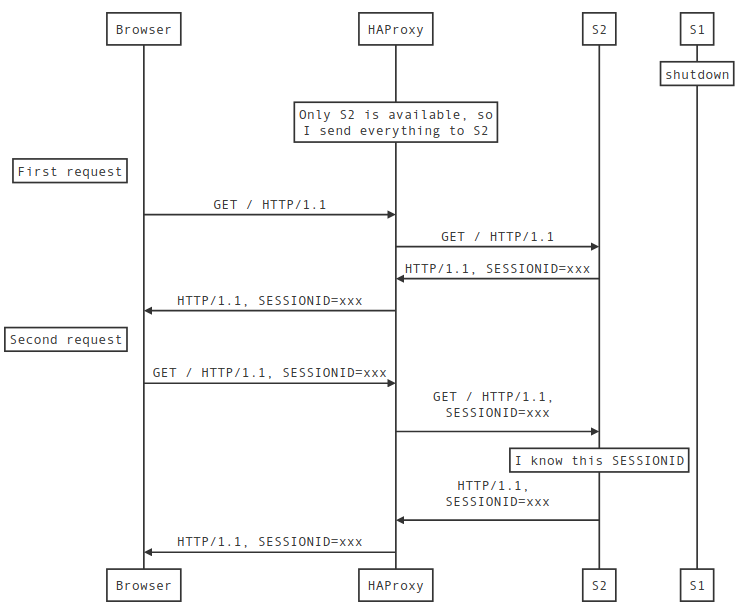
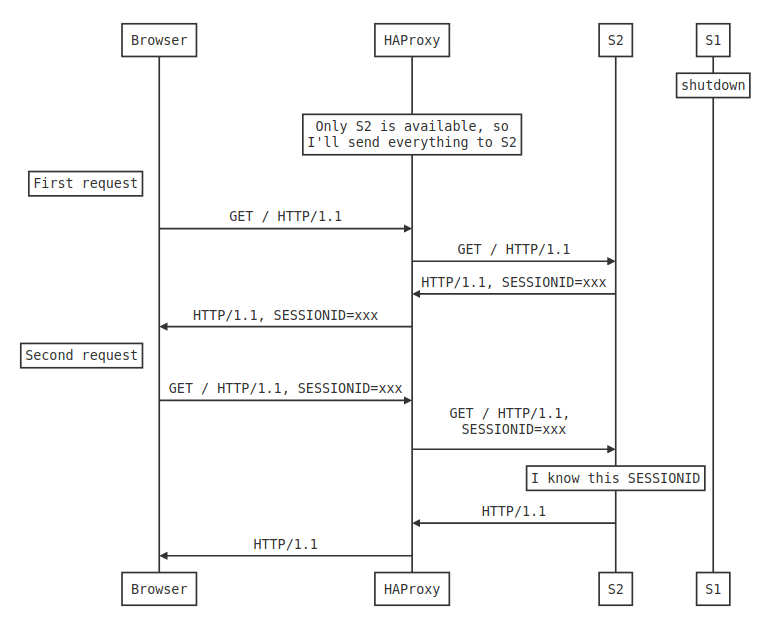
completes report

Changed region(s): [[0.0, 0.0, 0.9919, 1.0]]

diff --git a/README.md b/README.md
@@ -1,7 +1,10 @@
-Lab 03 - Load balancing
+# Lab 03 - Load balancing
+
+Authors : Caroline Monthoux, Rémi Poulard
+
+Date : 27.11.2019
 
 ### Task 1: Install the tools
-
 
 **Deliverables:**
 
@@ -31,11 +34,10 @@ We can confirm that the reverse proxy uses roundrobin policy by looking at `/ha/
 
 > 2. Explain what should be the correct behavior of the load balancer for session management.
 
-The load balancer should use **sticky sessions**. This means that once a server respond to a request with a session id, the load balancer should route the future requests for this particular session to the same server that serviced the first request.
+The load balancer should use **sticky sessions**. This means that once a server responds to a request with a session id, the load balancer should route the future requests for this particular session to the same server that serviced the first request.
 
 > 3. Provide a sequence diagram to explain what is happening when one requests the URL for the first time and then refreshes the page. We want to see what is happening with the cookie. We want to see the sequence of messages exchanged (1) between the browser and HAProxy and (2) between HAProxy and the nodes S1 and S2. Here is an example:
 >
-> ![Sequence diagram for part 1](assets/img/seq-diag-1.png)
 
 Here is the sequence diagram :
 
@@ -97,7 +99,7 @@ server s2 ${WEBAPP_2_IP}:3000 cookie cs2 check
 
 Here, we added `cookie csX` before `check`. It provides the value of the cookie inserted by HAProxy. When the client comes back, then HAProxy knows directly which server to choose for this client.
 
-![13](./img/13.png)
+![14](./img/14.png)
 
 * Using NODESESSID :
 
@@ -115,7 +117,7 @@ Here, when the server first responds to a client, a `Set-Cookie:NODESESSID=...` 
 
 Then, for its second request, the client will send a request containing : `Cookie:NODESESSID=cs1~...`. Finally, HAProxy will clean it up on the fly to set it up back like the origin : `Cookie:NODESESSID=...` and forward the request to the right server.
 
-![14](./img/14.png)
+![13](./img/13.png)
 
 > Choose one of the both stickiness approach for the next tasks.
 
@@ -123,8 +125,7 @@ Then, for its second request, the client will send a request containing : `Cooki
 
 We chose to use `NODESESSID`. The modifications we did in the configuration file and the explanations can be found in the previous question.
 
-> 3. Explain what is the behavior when you open and refresh the URL <http://192.168.42.42> in your browser. Add screenshots to complement your explanations. We expect that you take a deeper a
->    look at session management.
+> 3. Explain what is the behavior when you open and refresh the URL <http://192.168.42.42> in your browser. Add screenshots to complement your explanations. We expect that you take a deeper look at session management.
 
 The first time we get on the site, HAProxy simply forwards the request to an available server :
 
@@ -140,7 +141,7 @@ This time, the client has sent his cookie in the `Cookie` header. We can see tha
 
 > 4. Provide a sequence diagram to explain what is happening when one requests the URL for the first time and then refreshes the page. We want to see what is happening with the cookie. We want to see the sequence of messages exchanged (1) between the browser and HAProxy and (2) between HAProxy and the nodes S1 and S2. We also want to see what is happening when a second browser is used.
 
-
+![13](./img/13.png)
 
 > 5. Provide a screenshot of JMeter's summary report. Is there a difference with this run and the run of Task 1? Give a short explanation of what the load balancer is doing.
 
@@ -148,108 +149,12 @@ This time, there is two threads accessing the page.
 
 ![17](./img/17.png)
 
-We see that the roundrobin policy with sticky session works well. On 2000 samples, s1 has been reached 1000 times by thread1, and s2 has been reached 1000 times by thread2. On contrary to the run of Task 1, where only one thread was accessing the two servers.
+We see that the roundrobin policy with sticky session works well. On 2000 samples, S1 has been reached 1000 times by thread1, and S2 has been reached 1000 times by thread2. On contrary to the run of Task 1, where only one thread was accessing the two servers.
 
-The load balancer did the following : when thread1 requested the page, it sent the job to s1, which generated a cookie for thread1. Then, thread2 requested the page and the job was given to s2, which generated a cookie for thread2.
+The load balancer did the following : when thread1 requested the page, it sent the job to S1, which generated a cookie for thread1. Then, thread2 requested the page and the job was given to S2, which generated a cookie for thread2.
 
 
 ### Task 3: Drain mode
-
-HAProxy provides a mode where we can set a node to DRAIN state. In
-this case, HAProxy will let _current_ sessions continue to make
-requests to the node in DRAIN mode and will redirect all other traffic
-to the other nodes.
-
-In our case, it means that if we put `s1` in DRAIN mode, all new
-traffic will reach the `s2` node and all current traffic directed to
-`s1` will continue to communicate with `s1`.
-
-Another mode is MAINT mode which is more intrusive than DRAIN. In this
-mode, all current and new traffic is redirected to the other active
-nodes even if there are active sessions.
-
-In this task, we will experiment with these two modes. We will base
-our next steps on the work done on Task 2. We expect you have a
-working Sticky Session configuration with two web app nodes up and
-running called `s1` and `s2`.
-
-When all the infra is up and running, perform the following steps:
-
-1. Open a browser on your host
-
-2. Navigate to `http://192.168.42.42`. You will reach one of the two
-   nodes. Let's assume it is `s1` but in your case, it could be `s2`
-   as the balancing strategy is roundrobin.
-
-3. Refresh the page. You should get the same result except that the
-   views counter is incremented.
-
-4. Refresh multiple times the page and verify that you continue to
-   reach the same node and see the sessionViews counter increased.
-
-5. In a different tab, open `http://192.168.42.42:1936` and take a
-   look. You should have something similar to the following
-   screenshot.
-
-![Admin Stat view of HAProxy](assets/img/stats.png)
-
-  You should be able to see the `s1` and `s2` nodes and their state.
-
-For the next operations, you will use HAProxy's built-in command line
-to query its status and send commands to it. HAProxy provides the
-command line via a TCP socket so that a system administrator is able
-to connect to it when HAProxy runs on a remote server. You will use
-`socat` to connect to the TCP socket. `socat` is a universal
-command-line tool to connect pretty much anything with anything. You may need to install it
-
-To use it type the following:
-
-```bash
-$ socat - tcp:192.168.42.42:9999
-prompt
-
-> help
-Unknown command. Please enter one of the following commands only :
-  clear counters : clear max statistics counters (add 'all' for all counters)
-  clear table    : remove an entry from a table
-  help           : this message
-  prompt         : toggle interactive mode with prompt
-  quit           : disconnect
-  show info      : report information about the running process
-[...]
-```
-
-After typing `socat - tcp:localhost:9999` and pressing enter you will
-see... nothing. You are connected to HAProxy, but it remains silent
-for the time being. You have to turn on the prompt by typing
-`prompt`. You will see a new line starting with `>`. Now you can enter
-commands that will be directly interpreted by HAProxy.
-
-First, increase the client timeout to avoid losing connections.
-
-```bash
-> set timeout cli 1d
-```
-
-Now, to set a node's state to `ready`, `maint` or `drain`, enter the
-following command:
-
-```bash
-> set server nodes/<containerName> state <state>
-```
-
-**Note:** In fact, the `nodes` is the group of backend nodes
-  labelled. You will find the corresponding `backend nodes` in ha
-  config.
-
-**Note 2:** The containerName is the label of the node. In fact, in
-this lab, we used the same name as Docker container names but both
-names are not linked together. We can choose different names if we
-want. The name set in this command is the name present in the HAProxy
-admin stats interface (or also found in the config file).
-
-**Note 3:** We will use only the three states presented there. Take
-  care that the command only accept lower cases states.
 
 **Deliverables:**
 
@@ -257,7 +162,7 @@ admin stats interface (or also found in the config file).
 
 ![30](./img/30.png)
 
-We can see that node s1 is answering. Under "Sessions" label, we can observe that the column "LbTot" is set to `1`. This column is a counter of how many times this node was selected. There is also the "Total" column that summarizes how many requests came to this node.
+We can see that node S1 is answering. Under `Sessions` label, we can observe that the column `LbTot` is set to `1`. This column is a counter of how many times this node was selected. There is also the `Total` column that summarizes how many requests came to this node.
 
 ![31](./img/31.png)
 
@@ -275,19 +180,19 @@ It is still the same server that is responding. That is because the DRAIN state 
 
 > 4. Open another browser and open `http://192.168.42.42`. What is happening?
 
-The other node is answering us.
+This time, it is the other node that is answering us.
 
 ![36](./img/36.png)
 
 > 5. Clear the cookies on the new browser and repeat these two steps multiple times. What is happening? Are you reaching the node in DRAIN mode?
 
-It is always the node s2 (the one not in drain state) that is answering us. It is because we are creating new connections, so we are always redirected to the node s2.
+It is always the node S2 (the one not in DRAIN state) that is answering us. It is because we are creating new connections, so we are always redirected to the node S2.
 
 > 6. Reset the node in READY mode. Repeat the three previous steps and explain what is happening. Provide a screenshot of HAProxy's stats page.
 
-The connection that was still on s1, because the session was already set, has been redirected to s2 with a new session. This could be a problem and could cause inconsistent behaviors for the user.
+The connection that was still on S1, because the session was already set, has been redirected to S2 with a new session. This could be a problem and could cause inconsistent behaviors for the user.
 
-When we create a new connection with an other browser, it is the node s1 that is responding us. The roundrobin sticky session policy is functioning again.
+When we create a new connection with an other browser, it is the node S1 that is responding us. The roundrobin sticky session policy is functioning again.
 
 ![37](./img/37.png)
 
@@ -295,52 +200,11 @@ When we create a new connection with an other browser, it is the node s1 that is
 
 > 7. Finally, set the node in MAINT mode. Redo the three same steps and explain what is happening. Provide a screenshot of HAProxy's stats page.
 
-For every connections, new or already setup, it is the node s2 that is answering. This means that all sessions that were on s1 are lost.
+For every connections, new or already setup, it is the node S2 that is answering. This means that all sessions that were on S1 are lost.
 
 ![39](./img/39.png)
 
 ### Task 4: Round robin in degraded mode.
-
-In this part, we will try to simulate a degraded mode based on the round-robin previously configured.
-
-To help experimenting the balancing when an application started to behave strangely, the web application
-has a REST resource to configure a delay in the response. You can set
-an arbitrary delay in milliseconds. Once the delay is configured, the
-response will take the amount of time configured.
-
-To set the timeout, you have to do a `POST` request with the following
-content (be sure the `Content-Type` header is set to
-`application/json`. The configuration is applicable on each
-node. Therefore, you can do one `POST` request on
-`http://192.168.42.42/delay` and taking a look at the response cookies
-will tell you which node has been configured.
-
-```json
-{
-  "delay": 1000
-}
-```
-
-The previous example will set a delay of 1 second.
-
-Or retrieve the IP of the container you want to
-configure and then do the `curl` command to configure the delay.
-
-```bash
-$ docker inspect <containerName>
-
-$ curl -H "Content-Type: application/json" -X POST -d '{"delay": 1000}' http://<containerIp>:3000/delay
-```
-
-To reset the delay configuration, just do a `POST` with 0 as the delay
-value.
-
-Prepare your JMeter script with cookies erased (this will simulate new
-clients for each requests) and 10 threads this will simulate 10
-concurrent users.
-
-*Remark*: In general, take a screenshot of the summary report in
- JMeter to explain what is happening.
 
 **Deliverables:**
 
@@ -350,25 +214,26 @@ concurrent users.
 
 ![40](./img/40.png)
 
-> 2. Set a delay of 250 milliseconds on `s1`. Relaunch a run with the
-    JMeter script and explain what it is happening?
+> 2. Set a delay of 250 milliseconds on `s1`. Relaunch a run with the JMeter script and explain what it is happening?
 
-To set the delay we firstly have to get the IP address of s1. We use `docker inspect -f` (-f mean format) to get the IP directly.
+First, to set the delay, we have to get the IP address of S1. We use `docker inspect -f` (`-f` means `format`) to get the IP directly.
 
 ```bash
 $ docker inspect -f '{{range .NetworkSettings.Networks}}{{.IPAddress}}{{end}}' s1
 $ curl -H "Content-Type: application/json" -X POST -d '{"delay": 250}' http://192.168.42.11:3000/delay
 ```
 
-The test take more time to run, because each request take at least 250 ms to respond. We can see that on the report below. Indeed we can see that the average time to respond is 253 ms for the request `GET /`. The test takes 04:53 minutes to run entirely.
+The test takes more time to run, because each request take at least 250 ms to get a response. We can see that on the image below.
 
 ![41](./img/41.png)
+
+We can see that the average time to get a response is 253 ms for the request `GET /`. The test took almost 5 minutes (04:53) to run entirely.
 
 > 3. Set a delay of 2500 milliseconds on `s1`. Same than previous step.
 
 ![42](./img/42.png)
 
-We can see below that HAProxy has detected that S1 was too slow to respond so he automatically switched S1 as a down node and redirect traffic to S2 that is much faster to respond.
+This time, HAProxy has detected that S1 was too slow to respond, so he automatically switched S1 as a DOWN node and redirected traffic to S2, which is much faster to respond.
 
 ![43](./img/43.png)
 
@@ -376,23 +241,34 @@ We can see below that HAProxy has detected that S1 was too slow to respond so he
 
 > 4. In the two previous steps, are there any error? Why?
 
-We have no error because HAProxy detected himself that S1 was not healthy. So he put the node S1 in down state before any request join the node.
+There were no errors. Because HAProxy detected that S1 was not healthy, he temporary put this node in DOWN state and stopped sending it requests.
 
-> 5. Update the HAProxy configuration to add a weight to your nodes. For
-    that, add `weight [1-256]` where the value of weight is between the
-    two values (inclusive). Set `s1` to 2 and `s2` to 1. Redo a run with 250ms delay.
+> 5. Update the HAProxy configuration to add a weight to your nodes. For that, add `weight [1-256]` where the value of weight is between the two values (inclusive). Set `s1` to 2 and `s2` to 1. Redo a run with 250ms delay.
 
-5 threads
+First, we modified the configuration file like this :
+
+```bash
+server s1 ${WEBAPP_1_IP}:3000 cookie cs1 check weight 2
+server s2 ${WEBAPP_2_IP}:3000 cookie cs2 check weight 1
+```
+
+Here, the key element is that the higher the weight, the higher the load on the servers. The load is proportional to their weight, relative to the sum of all weights.
+
+To test it, we launched a JUnit test with 5 threads. Cookies were reused through the 1000 iterations. 
 
 ![45](./img/45.png)
 
+This screenshot has been taken during the test. Since the sum of all weights is 3, S1 is supposed to received 2/3 of the load and S2 only 1/3. Here, S2 have already been reached its maximum number of times (1000 * 2 threads), and S1 is still receiving requests because it has a delay for each one of them. 
+
+That is possible thanks to the use of cookies : once the requests have been correctly dispatched using the weights, cookies are delivered by S1 and S2. From there, the threads linked to S2 can make their requests without waiting for S1. 
+
 > 6. Now, what happened when the cookies are cleared between each requests and the delay is set to 250ms ? We expect just one or two sentence to summarize your observations of the behavior with/without cookies.
 
-5 thread clear cookies
+We did the same as previously (5 threads, 1000 iterations), but with cookies cleared between each request.
 
 ![46](./img/46.png)
 
-
+Without cookies, the load balancer can not quickly dispatch requests to S2. As a matter of fact, the use of weights forces HAProxy to send 2/3 requests to S1, even if the server experiences a high latency. In other words, S2 must wait on S1 to get its requests. As a result, this test lasted much longer than the first run.
 
 ### Task 5: Balancing strategies
 
@@ -439,7 +315,7 @@ As we expected, the first run didn't even involve S2. That is because S1 has tre
 
 > 3. Compare the both strategies and conclude which is the best for this lab (not necessary the best at all).
 
-The `leastconn` strategy resembles the `roundrobin` one. For both, there is a "balance" between servers. Moreover, `leastconn` includes a `roundrobin` strategy within groups of servers of the same load. However, `leastconn` works well with long sessions, so it is not very well suited for this lab. On the other side, `first` strategy can excloffude totally or partially a server from being used.
+The `leastconn` strategy resembles the `roundrobin` one. For both, there is a "balance" between servers. Moreover, `leastconn` includes a `roundrobin` strategy within groups of servers of the same load. However, `leastconn` works well with long sessions, so it is not very well suited for this lab. On the other side, `first` strategy can exclude totally or partially a server from being used.
 
 Since we don't feel the need to "save" power by shutting down a server (it is only a container), we think that `leastconn` is a better strategy for this lab.
 

diff --git a/seq/sequenceTask2.md b/seq/sequenceTask2.md
@@ -4,8 +4,6 @@
 
 
 
-
-
 ```sequence
 participant Browser
 participant HAProxy
@@ -16,11 +14,11 @@ Note left of Browser: First request\nAlice
 Browser->HAProxy :GET / HTTP/1.1
 HAProxy->S1:GET / HTTP/1.1
 S1->HAProxy :HTTP/1.1, NODESESSID=xxx
-HAProxy->Browser : HTTP/1.1, NODESESSID=xxx, SERVERID=cs1
+HAProxy->Browser : HTTP/1.1, NODESESSID=cs1~xxx
 
 Note left of Browser: Second request\nAlice
-Browser->HAProxy:GET / HTTP/1.1, NODESESSID=xxx, SERVERID=cs1
-Note over HAProxy: With SERVERID I know where\nto send the request
+Browser->HAProxy:GET / HTTP/1.1, NODESESSID=cs1~xxx
+Note over HAProxy: I know this NODESESSID\nIt's linked to S1
 HAProxy->S1: GET / HTTP/1.1, NODESESSID=xxx
 S1->HAProxy :HTTP/1.1
 HAProxy->Browser : HTTP/1.1
@@ -29,6 +27,7 @@ Note left of Browser: Third request\nBob
 Browser->HAProxy:GET / HTTP/1.1
 HAProxy->S2: GET / HTTP/1.1
 S2->HAProxy :HTTP/1.1, NODESESSID=yyy
-HAProxy->Browser : HTTP/1.1, NODESESSID=yyy, SERVERID=cs2
+HAProxy->Browser : HTTP/1.1, NODESESSID=cs2~yyy
 
 ```
+

diff --git a/sequenceTask1OneShutdown.md b/sequenceTask1OneShutdown.md
@@ -6,7 +6,7 @@ participant S1
 
 
 Note over S1: shutdown
-Note over HAProxy: Only S2 is available, so\nI send everything to S2
+Note over HAProxy: Only S2 is available, so\nI'll send everything to S2
 Note left of Browser: First request
 Browser->HAProxy :GET / HTTP/1.1
 HAProxy->S2:GET / HTTP/1.1
@@ -17,7 +17,8 @@ Note left of Browser: Second request
 Browser->HAProxy:GET / HTTP/1.1, SESSIONID=xxx
 HAProxy->S2: GET / HTTP/1.1, \nSESSIONID=xxx
 Note over  S2: I know this SESSIONID
-S2->HAProxy :HTTP/1.1, \nSESSIONID=xxx
-HAProxy->Browser : HTTP/1.1, SESSIONID=xxx
+S2->HAProxy :HTTP/1.1
+HAProxy->Browser : HTTP/1.1
 
 ```
+
